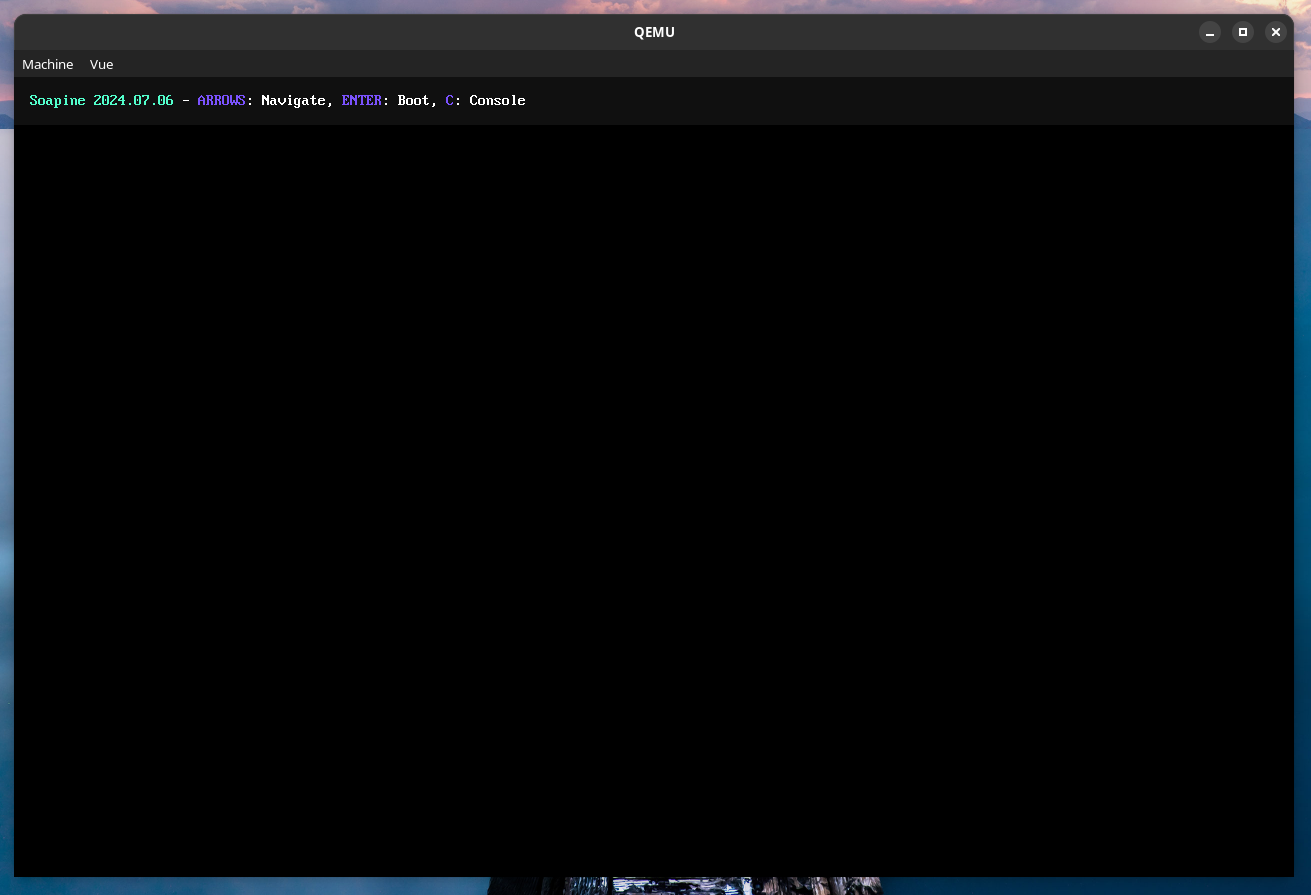
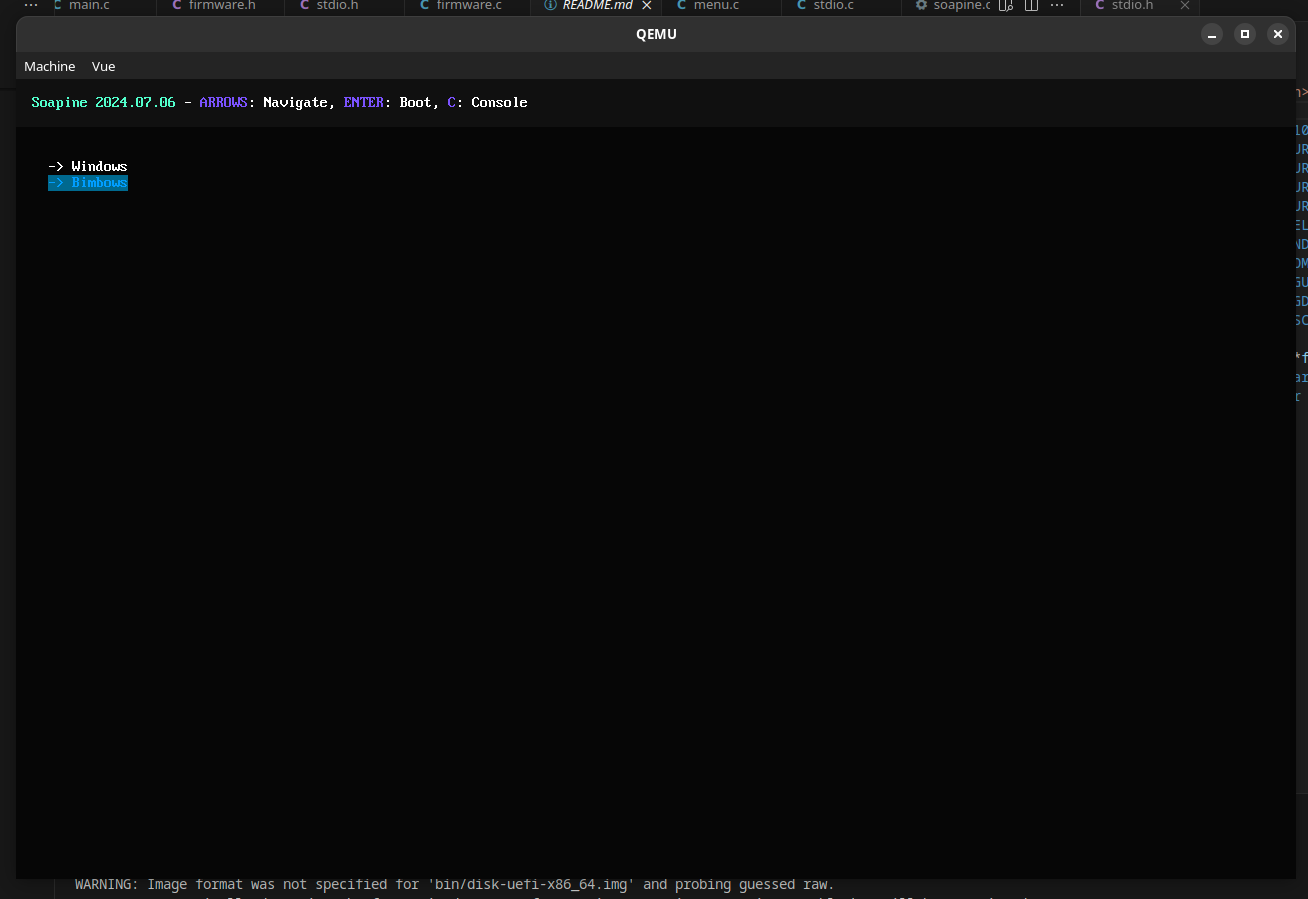
console: start implementation

Changed region(s): [[0.0, 0.0, 1.0, 1.0]]

diff --git a/common/lib/main.c b/common/lib/main.c
@@ -4,6 +4,7 @@
 #include <lib/config.h>
 #include <lib/term.h>
 #include <libc/fileio.h>
+#include <console.h>
 #include <menu.h>
 #include <stdio.h>
 #include <stdlib.h>
@@ -17,23 +18,24 @@ void config_initialize() {
         && (file = open(NULL, "\\EFI\\soapine.cfg")) == NULL
         && (file = open(NULL, "\\EFI\\BOOT\\soapine.cfg")) == NULL
         && (file = open(NULL, "\\soapine\\soapine.cfg")) == NULL){
-        abort(false, "No configuration file found! Please refer to the Soapine documentation.");
+        printf("No configuration file found! Please refer to the Soapine documentation.\n");
+        printf("Dropping to a console...\n\n");
+        
+        console(0);
     } else {
         char buffer[4096];
         read(file, 4096, buffer);
 
         config_init(buffer);
 
-        if (config_parsing_errors_present != 0)
+        if (config_parsing_errors_present != 0 || config_get_menu_root() == NULL)
         {
             printf("\n");
             printf("Configuration parser completed with errors!\n");
             printf("Please take a shot of the messages and correct your config file according to the parser messages.\n\n");
-            printf("System halted\n");
+            printf("Dropping to console...\n");
 
-            asm("cli");
-            while (1)
-                asm("hlt");
+            console(0);
         }
 
         close(file);

diff --git a/common/menu.c b/common/menu.c
@@ -2,6 +2,7 @@
 #include <lib/config.h>
 #include <lib/term.h>
 #include <bootloader-info.h>
+#include <console.h>
 #include <menu.h>
 #include <stdio.h>
 #include <stdlib.h>
@@ -99,6 +100,7 @@ __attribute__((noreturn)) void menu(bool first_run)
     mentry_count = config_get_mentry_count();
     int selected_entry = 0;
 
+render_full:
     term_clear();
     render_headerbar();
 
@@ -128,6 +130,15 @@ render:
                 }
                 selected_entry++;
                 goto render;
+            case GETCHAR_CURSOR_RIGHT:
+            case GETCHAR_ENTER:
+            case ' ':
+                abort(true, "Booting isn't supported\n");
+                break;
+            case 'C':
+            case 'c':
+                console(1);
+                goto render_full;
         }
     }
 }

diff --git a/common/console.c b/common/console.c
@@ -1,0 +1,32 @@
+#include <lib/term.h>
+#include <bootloader-info.h>
+#include <console.h>
+#include <stdio.h>
+
+void console(int clear_term) {
+    if (clear_term > 0) {
+        term_clear();
+        term_set_cursor(true, 0, 0);
+    }
+    else
+    {
+        term_set_cursor(true, -1, -1);
+    }
+    
+    printf("Soapine %s\n", SOAPINE_VERSION);
+    printf("Copyright (C) 2024-present Sipaa Projects and the Soapine contributors.\n\n");
+
+    printf("> ");
+
+    while (1)
+    {
+        int c = getchar();
+
+        if (c < 256)
+            printf("%c", c);
+        else {
+            if (c == GETCHAR_ESC)
+                break;
+        }
+    }
+}

diff --git a/common/lib/term.c b/common/lib/term.c
@@ -74,11 +74,14 @@ void term_init(terminal_type_t preferred)
 void term_set_cursor(bool enabled, int x, int y) {
     if (term_type == FBTERM) {
         ctx.cur_visible = enabled;
-        ctx.cur_x = x;
-        ctx.cur_y = y;
+        if (x >= 0)
+            ctx.cur_x = x;
+        if (y >= 0)
+            ctx.cur_y = y;
     } else if (term_type == FALLBACK) {
         uefi_call_wrapper(gST->ConOut->EnableCursor, 2, gST->ConOut, enabled);
-        uefi_call_wrapper(gST->ConOut->SetCursorPosition, 3, gST->ConOut, x, y);
+        if (x >= 0 && y >= 0)
+            uefi_call_wrapper(gST->ConOut->SetCursorPosition, 3, gST->ConOut, x, y);
     }
 }
 

diff --git a/common/lib/firmware.c b/common/lib/firmware.c
@@ -49,6 +49,9 @@ int firmware_console_getchar()
                 return GETCHAR_PGDOWN;
         }
 
+        if (Key.UnicodeChar == CHAR_CARRIAGE_RETURN)
+            return GETCHAR_ENTER;
+
         if (Key.UnicodeChar == CHAR_NULL && Key.ScanCode == SCAN_ESC) {
             return GETCHAR_ESC;
         }

diff --git a/common/bootloader-info.h b/common/bootloader-info.h
@@ -1,6 +1,6 @@
 #pragma once
 
-#define SOAPINE_VERSION "2024.07.06"
+#define SOAPINE_VERSION "2024.07.07"
 #define SOAPINE_VERSION_YEAR 2024
 #define SOAPINE_VERSION_MONTH 07
-#define SOAPINE_VERSION_DAY 06
+#define SOAPINE_VERSION_DAY 07

diff --git a/common/libc/stdio.h b/common/libc/stdio.h
@@ -13,6 +13,7 @@
 #define GETCHAR_PGUP 264
 #define GETCHAR_PGDOWN 265
 #define GETCHAR_ESC 266
+#define GETCHAR_ENTER 267
 
 void printf(char *format, ...);
 void vsnprintf(char *buf, int bufsz, char *format, va_list args);

diff --git a/common/libc/stdlib.h b/common/libc/stdlib.h
@@ -7,3 +7,5 @@ void abort(bool allow_menu, char *msg, ...);
 void *malloc(size_t size);
 void free(void *ptr);
 int atoi(char *str);
+void usleep(int us);
+void sleep(int s);

diff --git a/common/libc/stdlib.c b/common/libc/stdlib.c
@@ -51,3 +51,11 @@ int atoi(char *p) {
      }
      return k;
 }
+
+void usleep(int us) {
+    firmware_usleep(us);
+}
+
+void sleep(int s) {
+    firmware_sleep(s);
+}

diff --git a/common/console.h b/common/console.h
@@ -1,0 +1,3 @@
+#pragma once
+
+void console(int clear_term);
